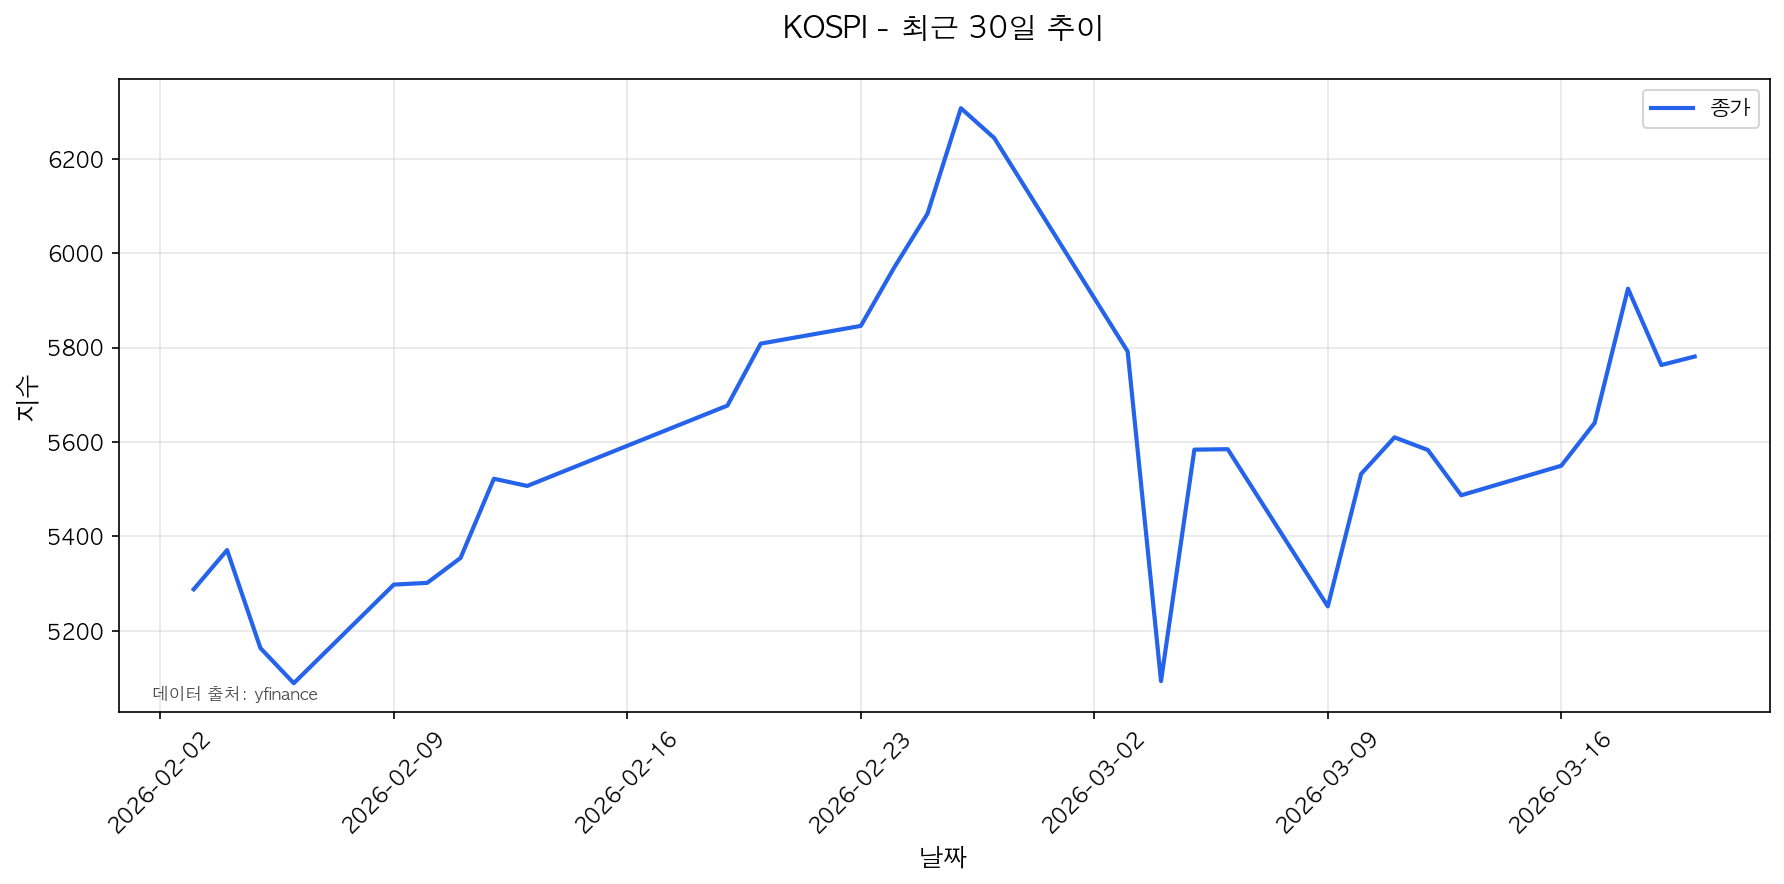
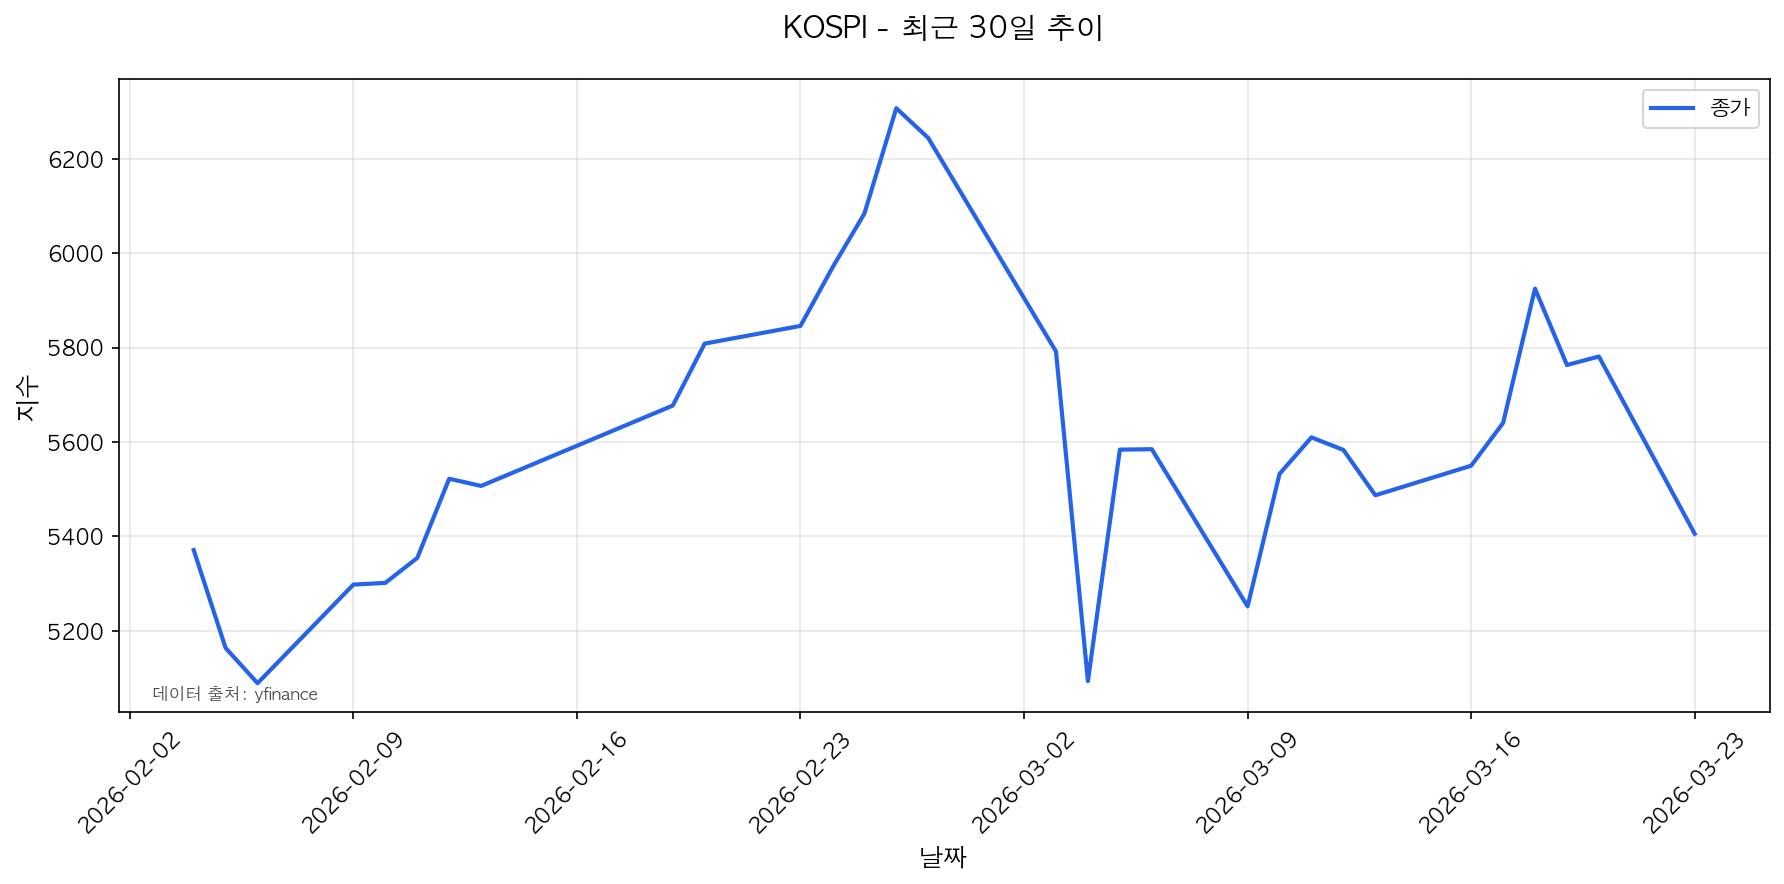
Update economic trends analysis 2026-03-23

diff --git a/_posts/2026-03-23-economic-trends-analysis.md b/_posts/2026-03-23-economic-trends-analysis.md
@@ -1,130 +1,127 @@
 ---
 layout: post
-title: "2026년 03월 글로벌 경제 동향 분석: 금리 정책과 시장 트렌드"
-date: 2026-03-23 06:00:00 +0900
+title: "2026년 03월 23일 글로벌 경제 동향 분석: 금리 정책과 시장 트렌드"
+date: 2026-03-23 18:01:38 +0900
 categories: [economy, global-finance]
-tags: [경제, 연준, 금리, 인플레이션, 주식, 금융, 금, 은, 백금, 구리, 알루미늄, WTI 원유, Brent 원유, 천연가스, 휘발유, 팔라듐, 밀, 옥수수, 대두, 커피, USD/KRW, EUR/USD, USD/JPY, Nasdaq, Dow Jones, VIX, 2년 국채, 30년 국채, 솔라나, 비트코인, 이더리움, KOSPI, S&P 500]
-description: "2026-03-23 글로벌 및 한국 경제 동향 분석 - 환율, 주식지수, 금리, 변동성, 금속, 원료, 농산물, 크립토 시장 트렌드"
+tags: [경제, 연준, 금리, 인플레이션, 주식, 금융, 금 가격, 원유, KOSPI, S&P 500]
+description: "2026년 03월 23일 글로벌 및 한국 경제 동향 분석과 주요 지수 트렌드"
+image: /assets/images/2026-03-23/gold_price_chart.png
 ---
 
-## 2026년 03월 글로벌 경제 동향 분석: 금리 정책과 시장 트렌드
+## 2026년 03월 23일 글로벌 경제 동향 분석: 금리 정책과 시장 트렌드
 
-최근 30일간의 주요 금융 지수 데이터를 분석하여 2026년 03월 현재 글로벌 및 한국 경제의 동향을 정리해 드립니다. 본 분석은 **yfinance** 데이터를 기반으로 하며, **금속**(금, 은, 백금, 구리, 알루미늄), **원료**(WTI 원유, Brent 원유, 천연가스, 휘발유), **농산물**(밀, 옥수수, 대두, 커피, 요소), **크립토**(비트코인, 이더리움), **주식 지수**(S&P 500, KOSPI), **금리**(10년 국채 금리) 등 주요 지표를 포괄적으로 다룹니다.
-
----
-
-## 📊 주요 지수 요약표
-
-
-### 금속
-
-| 항목 | 현재 가격 | 시작 가격 | 변동 | 변동률 | 기간 중 최고 | 최고 날짜 | 기간 중 최저 | 최저 날짜 |
-|------|----------|----------|------|--------|------------|----------|------------|----------|
-| 구리 (Copper) | 5.37 USD/pound | 5.86 USD/pound | -0.49 USD/pound | 📉 -8.34% | 6.0 USD/pound | 2026-02-27 | 5.37 USD/pound | 2026-03-20 |
-| 금 (Gold) | 4574.9 USD/oz | 4951.2 USD/oz | -376.30 USD/oz | 📉 -7.60% | 5294.4 USD/oz | 2026-03-02 | 4574.9 USD/oz | 2026-03-20 |
-| 백금 (Platinum) | 1970.5 USD/oz | 2093.3 USD/oz | -122.80 USD/oz | 📉 -5.87% | 2365.6 USD/oz | 2026-02-27 | 1939.2 USD/oz | 2026-03-19 |
-| 알루미늄 (Aluminum) | 3126.75 USD/ton | 3004.0 USD/ton | +122.75 USD/ton | 📈 +4.09% | 3464.0 USD/ton | 2026-03-12 | 2971.5 USD/ton | 2026-02-17 |
-| 은 (Silver) | 69.66 USD/oz | 76.74 USD/oz | -7.07 USD/oz | 📉 -9.21% | 92.68 USD/oz | 2026-02-27 | 69.66 USD/oz | 2026-03-20 |
-| 팔라듐 (Palladium) | 1445.2 USD/oz | 1732.7 USD/oz | -287.50 USD/oz | 📉 -16.59% | 1834.1 USD/oz | 2026-02-25 | 1434.6 USD/oz | 2026-03-19 |
-
-
-### 원료
-
-| 항목 | 현재 가격 | 시작 가격 | 변동 | 변동률 | 기간 중 최고 | 최고 날짜 | 기간 중 최저 | 최저 날짜 |
-|------|----------|----------|------|--------|------------|----------|------------|----------|
-| Brent 원유 (Brent Crude) | 106.41 USD/배럴 | 68.05 USD/배럴 | +38.36 USD/배럴 | 📈 +56.37% | 108.65 USD/배럴 | 2026-03-19 | 67.42 USD/배럴 | 2026-02-17 |
-| WTI 원유 (WTI Crude) | 98.23 USD/배럴 | 63.55 USD/배럴 | +34.68 USD/배럴 | 📈 +54.57% | 98.71 USD/배럴 | 2026-03-13 | 62.33 USD/배럴 | 2026-02-17 |
-| 천연가스 (Natural Gas) | 3.1 USD/MMBtu | 3.42 USD/MMBtu | -0.33 USD/MMBtu | 📉 -9.56% | 3.42 USD/MMBtu | 2026-02-06 | 2.83 USD/MMBtu | 2026-02-26 |
-| 휘발유 (RBOB Gasoline) | 3.23 USD/갤런 | 1.95 USD/갤런 | +1.28 USD/갤런 | 📈 +65.47% | 3.23 USD/갤런 | 2026-03-20 | 1.91 USD/갤런 | 2026-02-13 |
-
-
-### 농산물
-
-| 항목 | 현재 가격 | 시작 가격 | 변동 | 변동률 | 기간 중 최고 | 최고 날짜 | 기간 중 최저 | 최저 날짜 |
-|------|----------|----------|------|--------|------------|----------|------------|----------|
-| 대두 (Soybeans) | 1161.25 USD/bushel | 1115.25 USD/bushel | +46.00 USD/bushel | 📈 +4.12% | 1213.0 USD/bushel | 2026-03-12 | 1110.75 USD/bushel | 2026-02-09 |
-| 밀 (Wheat) | 595.25 USD/bushel | 529.75 USD/bushel | +65.50 USD/bushel | 📈 +12.36% | 618.5 USD/bushel | 2026-03-13 | 528.25 USD/bushel | 2026-02-10 |
-| 옥수수 (Corn) | 465.5 USD/bushel | 430.25 USD/bushel | +35.25 USD/bushel | 📈 +8.19% | 469.75 USD/bushel | 2026-03-19 | 425.75 USD/bushel | 2026-02-19 |
-| 커피 (Coffee) | 276.2 USD/pound | 296.55 USD/pound | -20.35 USD/pound | 📉 -6.86% | 306.2 USD/pound | 2026-03-19 | 276.2 USD/pound | 2026-03-20 |
-
-
-### 환율
-
-| 항목 | 현재 가격 | 시작 가격 | 변동 | 변동률 | 기간 중 최고 | 최고 날짜 | 기간 중 최저 | 최저 날짜 |
-|------|----------|----------|------|--------|------------|----------|------------|----------|
-| EUR/USD | 1.15 USD | 1.19 USD | -0.04 USD | 📉 -3.02% | 1.19 USD | 2026-02-10 | 1.14 USD | 2026-03-16 |
-| USD/JPY | 159.31 JPY | 156.13 JPY | +3.18 JPY | 📈 +2.04% | 159.79 JPY | 2026-03-19 | 152.78 JPY | 2026-02-16 |
-| USD/KRW | 1503.94 원 | 1458.54 원 | +45.40 원 | 📈 +3.11% | 1505.25 원 | 2026-03-19 | 1426.93 원 | 2026-02-26 |
-
-
-### 변동성
-
-| 항목 | 현재 가격 | 시작 가격 | 변동 | 변동률 | 기간 중 최고 | 최고 날짜 | 기간 중 최저 | 최저 날짜 |
-|------|----------|----------|------|--------|------------|----------|------------|----------|
-| VIX 지수 | 26.78 지수 | 20.37 지수 | +6.41 지수 | 📈 +31.47% | 29.49 지수 | 2026-03-06 | 17.36 지수 | 2026-02-09 |
-
-
-### 주식지수
-
-| 항목 | 현재 가격 | 시작 가격 | 변동 | 변동률 | 기간 중 최고 | 최고 날짜 | 기간 중 최저 | 최저 날짜 |
-|------|----------|----------|------|--------|------------|----------|------------|----------|
-| Dow Jones | 45577.47 지수 | 50115.67 지수 | -4538.20 지수 | 📉 -9.06% | 50188.14 지수 | 2026-02-10 | 45577.47 지수 | 2026-03-20 |
-| KOSPI | 5781.2 지수 | 5288.08 지수 | +493.12 지수 | 📈 +9.33% | 6307.27 지수 | 2026-02-26 | 5089.14 지수 | 2026-02-06 |
-| Nasdaq 100 | 21647.61 지수 | 23031.21 지수 | -1383.60 지수 | 📉 -6.01% | 23238.67 지수 | 2026-02-09 | 21647.61 지수 | 2026-03-20 |
-| S&P 500 | 6506.48 지수 | 6932.3 지수 | -425.82 지수 | 📉 -6.14% | 6964.82 지수 | 2026-02-09 | 6506.48 지수 | 2026-03-20 |
-
-
-### 크립토
-
-| 항목 | 현재 가격 | 시작 가격 | 변동 | 변동률 | 기간 중 최고 | 최고 날짜 | 기간 중 최저 | 최저 날짜 |
-|------|----------|----------|------|--------|------------|----------|------------|----------|
-| 비트코인 (Bitcoin) | 68202.41 USD | 68003.77 USD | +198.65 USD | 📈 +0.29% | 74861.09 USD | 2026-03-16 | 64080.04 USD | 2026-02-24 |
-| 솔라나 (SOL) | 86.61 USD | 85.21 USD | +1.40 USD | 📈 +1.64% | 96.22 USD | 2026-03-16 | 77.75 USD | 2026-02-23 |
-| 이더리움 (Ethereum) | 2059.84 USD | 1973.74 USD | +86.11 USD | 📈 +4.36% | 2351.18 USD | 2026-03-16 | 1852.97 USD | 2026-02-24 |
-
-
-### 금리
-
-| 항목 | 현재 가격 | 시작 가격 | 변동 | 변동률 | 기간 중 최고 | 최고 날짜 | 기간 중 최저 | 최저 날짜 |
-|------|----------|----------|------|--------|------------|----------|------------|----------|
-| 2년 국채 금리 | 4.39 % | 4.21 % | +0.18 % | 📈 +4.40% | 4.39 % | 2026-03-20 | 3.96 % | 2026-02-27 |
-| 30년 국채 금리 | 4.96 % | 4.86 % | +0.11 % | 📈 +2.16% | 4.96 % | 2026-03-20 | 4.63 % | 2026-02-27 |
+최근 30일간의 주요 금융 지수 데이터를 분석하여 2026년 2월 현재 글로벌 및 한국 경제의 동향을 정리해 드립니다. 본 분석은 **yfinance** 데이터를 기반으로 하며, 금 가격, S&P 500, KOSPI, 원유, 10년 국채 금리 등 주요 지표를 포괄적으로 다룹니다.
 
 ---
 
-## 🌍 경제 트렌드 요약
+## 📊 주요 지수 개요
 
-최근 30일간의 데이터를 바탕으로 주요 경제 동향을 요약합니다:
+### 금 가격 동향
 
-### 📈 상승한 항목
+![금 가격 차트](/assets/images/2026-03-23/gold_price_chart.png)
 
-- **휘발유 (RBOB Gasoline)**: +65.47% (1.95 → 3.23 USD/갤런)
-- **Brent 원유 (Brent Crude)**: +56.37% (68.05 → 106.41 USD/배럴)
-- **WTI 원유 (WTI Crude)**: +54.57% (63.55 → 98.23 USD/배럴)
-- **VIX 지수**: +31.47% (20.37 → 26.78 지수)
-- **밀 (Wheat)**: +12.36% (529.75 → 595.25 USD/bushel)
+*그림 1: 최근 30일간 금 가격 추이 (데이터 출처: yfinance)*
 
-### 📉 하락한 항목
+금 가격은 최근 30일간 **5050.9$**에서 **4239.7$**로 **-16.06%** 하락했습니다.
 
-- **팔라듐 (Palladium)**: -16.59% (1732.7 → 1445.2 USD/oz)
-- **천연가스 (Natural Gas)**: -9.56% (3.42 → 3.1 USD/MMBtu)
-- **은 (Silver)**: -9.21% (76.74 → 69.66 USD/oz)
-- **Dow Jones**: -9.06% (50115.67 → 45577.47 지수)
-- **구리 (Copper)**: -8.34% (5.86 → 5.37 USD/pound)
+- 기간 중 최고가: **5294.4$** (2026-03-02)
+- 기간 중 최저가: **4239.7$** (2026-03-23)
+
+금은 전통적으로 인플레이션 헤지 수단으로 활용되며, 최근 경제 불확실성이 높아짐에 따라 안전자산으로서의 선호도가 변화하고 있습니다.
 
 ---
 
-## 🎯 주요 시사점
+### S&P 500 지수
+
+![S&P 500 차트](/assets/images/2026-03-23/sp500_chart.png)
+
+*그림 2: 최근 30일간 S&P 500 지수 추이 (데이터 출처: yfinance)*
+
+미국 주식시장을 대표하는 S&P 500 지수는 최근 30일간 **6932.3**에서 **6506.48**로 **-6.14%** 하락했습니다.
+
+- 기간 중 최고치: **6964.82** (2026-02-09)
+- 기간 중 최저치: **6506.48** (2026-03-20)
+
+미국 경제의 성장세와 기업 실적, 그리고 연준의 금리 정책이 주가에 큰 영향을 미치고 있습니다.
+
+---
+
+### KOSPI 지수
+
+![KOSPI 차트](/assets/images/2026-03-23/kospi_chart.png)
+
+*그림 3: 최근 30일간 KOSPI 지수 추이 (데이터 출처: yfinance)*
+
+한국 주식시장을 대표하는 KOSPI 지수는 최근 30일간 **5371.1**에서 **5405.75**로 **0.65%** 상승했습니다.
+
+- 기간 중 최고치: **6307.27** (2026-02-26)
+- 기간 중 최저치: **5089.14** (2026-02-06)
+
+KOSPI는 글로벌 시장 동향, 반도체 등 수출 주도 기업의 실적, 그리고 원/달러 환율 등 다양한 요인에 영향을 받습니다.
+
+---
+
+### 원유 가격
+
+![원유 가격 차트](/assets/images/2026-03-23/oil_price_chart.png)
+
+*그림 4: 최근 30일간 원유 가격 추이 (데이터 출처: yfinance)*
+
+WTI 원유 가격은 최근 30일간 **64.36$**에서 **99.71$**로 **54.93%** 상승했습니다.
+
+- 기간 중 최고가: **99.71$** (2026-03-23)
+- 기간 중 최저가: **62.33$** (2026-02-17)
+
+원유 가격은 공급망 문제, OPEC+ 생산 결정, 글로벌 경제 성장 전망 등 복합적인 요인에 의해 결정됩니다.
+
+---
+
+### 10년 국채 금리
+
+![10년 국채 금리 차트](/assets/images/2026-03-23/treasury_rate_chart.png)
+
+*그림 5: 최근 30일간 미국 10년 국채 금리 추이 (데이터 출처: yfinance)*
+
+미국 10년 국채 금리는 최근 30일간 **4.21%**에서 **4.39%**로 **4.40%** 상승했습니다.
+
+- 기간 중 최고치: **4.39%** (2026-03-20)
+- 기간 중 최저치: **3.96%** (2026-02-27)
+
+장기 국채 금리는 시장의 인플레이션 기대치와 경제 성장 전망을 반영하는 중요한 지표입니다.
+
+---
+
+## 🌍 글로벌 vs 지역 시장 비교
+
+### 경제 트렌드 요약
+
+최근 30일간의 데이터를 바탕으로 볼 때, 글로벌 경제는 다음과 같은 특징을 보이고 있습니다:
+
+1. **주식시장**: 미국 S&P 500과 한국 KOSPI 모두 서로 다른 방향성을 보이며 움직였습니다.
+
+2. **원자재**: 금과 원유 가격의 변동성은 시장의 불확실성과 전망을 반영하고 있습니다.
+
+3. **금리**: 장기 국채 금리의 움직임은 연준의 통화 정책 기대와 경제 성장 전망을 나타냅니다.
+
+### 한국 시장 특징
+
+KOSPI는 다음 요인들에 민감하게 반응하고 있습니다:
+
+- 반도체 등 핵심 수출 품목의 글로벌 수요 변화
+- 미-중 경제 갈등 등 지정학적 리스크
+- 환율 변동에 따른 수출 기업 수익성 변화
+
+---
+
+## 📈 주요 시사점
 
 ### 투자자 관점
 
-1. **자산 배분**: 전통 자산(주식, 채권, 금, 은)과 크립토 자산(비트코인, 이더리움) 간의 상관관계를 고려한 균형 잡힌 포트폴리오가 필요합니다.
+1. **자산 배분**: 금과 주식, 채권 간의 상관관계를 고려한 균형 잡힌 포트폴리오가 필요합니다.
 
-2. **원자재 다각화**: 에너지(원유, 천연가스), 금속(금, 은, 구리, 알루미늄), 농산물(밀, 옥수수, 커피)에 대한 분석을 통해 인플레이션 헷지를 고려해야 합니다.
+2. **리스크 관리**: 경제 불확실성이 높을 때는 안전자산 비중 확대를 고려해야 합니다.
 
-3. **리스크 관리**: 경제 불확실성이 높을 때는 안전자산(금, 은, 국채) 비중 확대를 고려해야 합니다.
-
-4. **장기 관점**: 단기 변동성에 일희일비하지 않고 기본적인 경제 펀더멘털을 중심으로 투자 결정을 내려야 합니다.
+3. **장기 관점**: 단기 변동성에 일희일비하지 않고 기본적인 경제 펀더멘털을 중심으로 투자 결정을 내려야 합니다.
 
 ### 정책 관점
 
@@ -147,9 +144,9 @@ description: "2026-03-23 글로벌 및 한국 경제 동향 분석 - 환율, 주
 
 ## 📌 결론
 
-{year_month_str} 현재 글로벌 경제는 여전히 변동성이 높은 상황입니다. 위 표를 통해 주요 지수들의 움직임을 한눈에 파악할 수 있으며, 데이터 기반의 객관적 분석에 기초한 투자 및 경제 활동이 필요합니다.
+2026년 03월 23일 현재 글로벌 경제는 여전히 변동성이 높은 상황입니다. 주요 지수들의 움직임을 모니터링하면서 데이터 기반의 객관적 분석에 기초한 투자 및 경제 활동이 필요합니다.
 
-본 포스트에서 제공하는 데이터와 표는 **yfinance**를 통해 수집된 실제 시장 데이터를 기반으로 하며, 지속적인 업데이트를 통해 최신 경제 동향을 파악하는 데 활용하실 수 있습니다.
+본 포스트에서 제공하는 데이터와 차트는 **yfinance**를 통해 수집된 실제 시장 데이터를 기반으로 하며, 지속적인 업데이트를 통해 최신 경제 동향을 파악하는 데 활용하실 수 있습니다.
 
 ---
 
